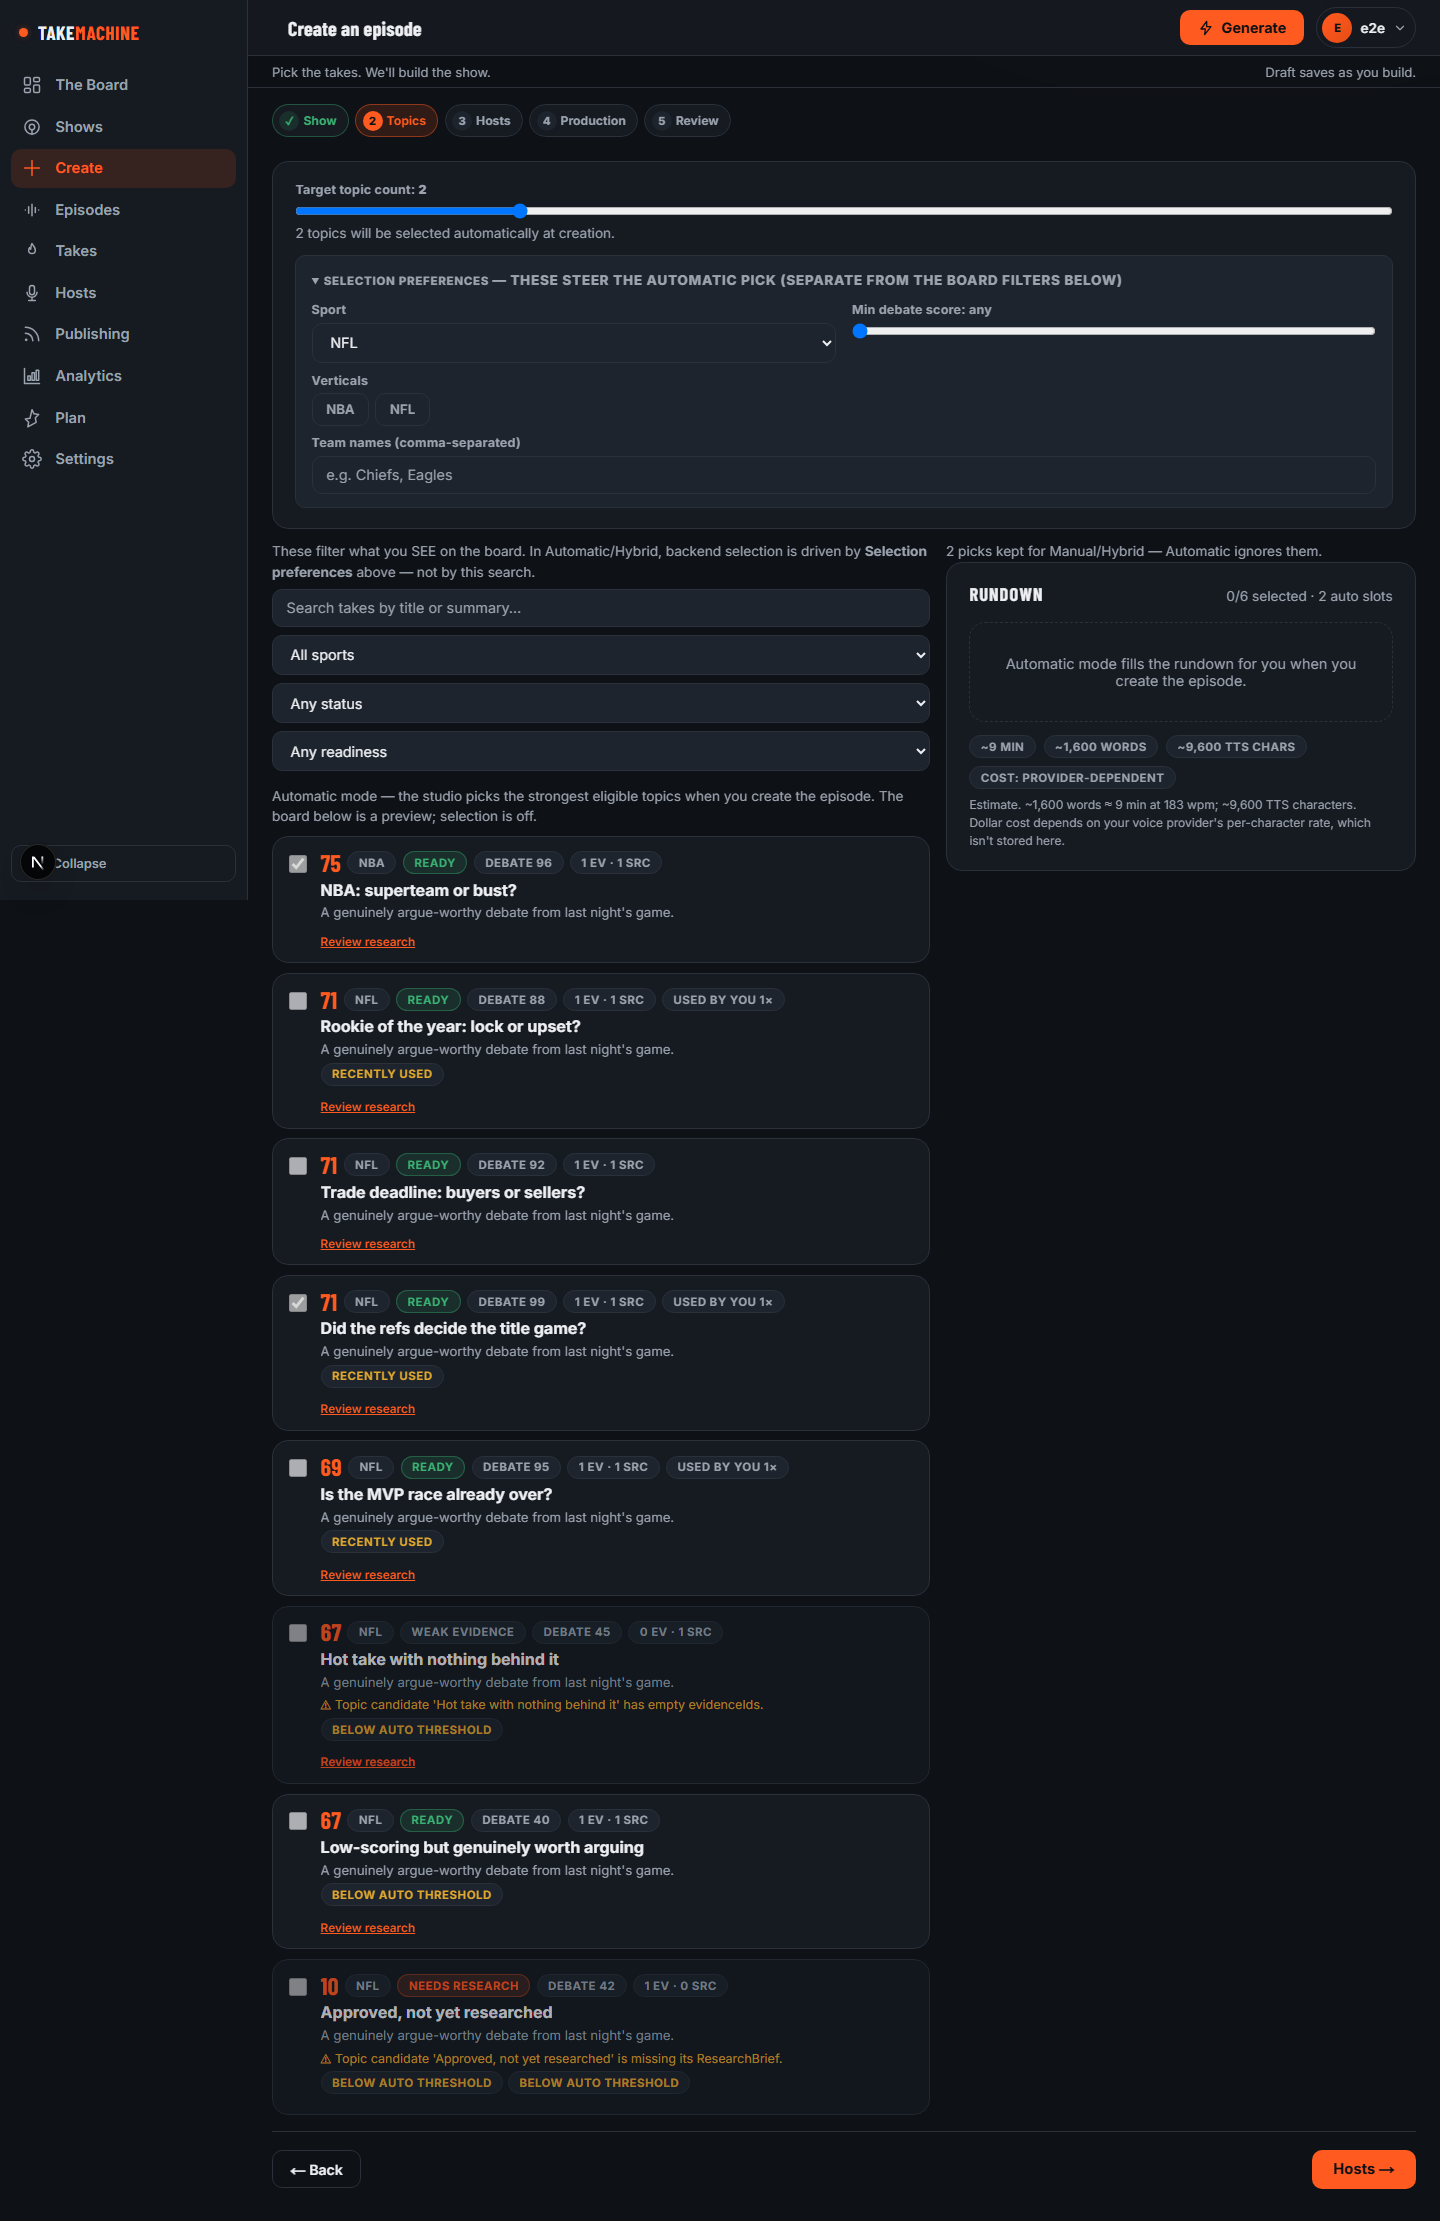
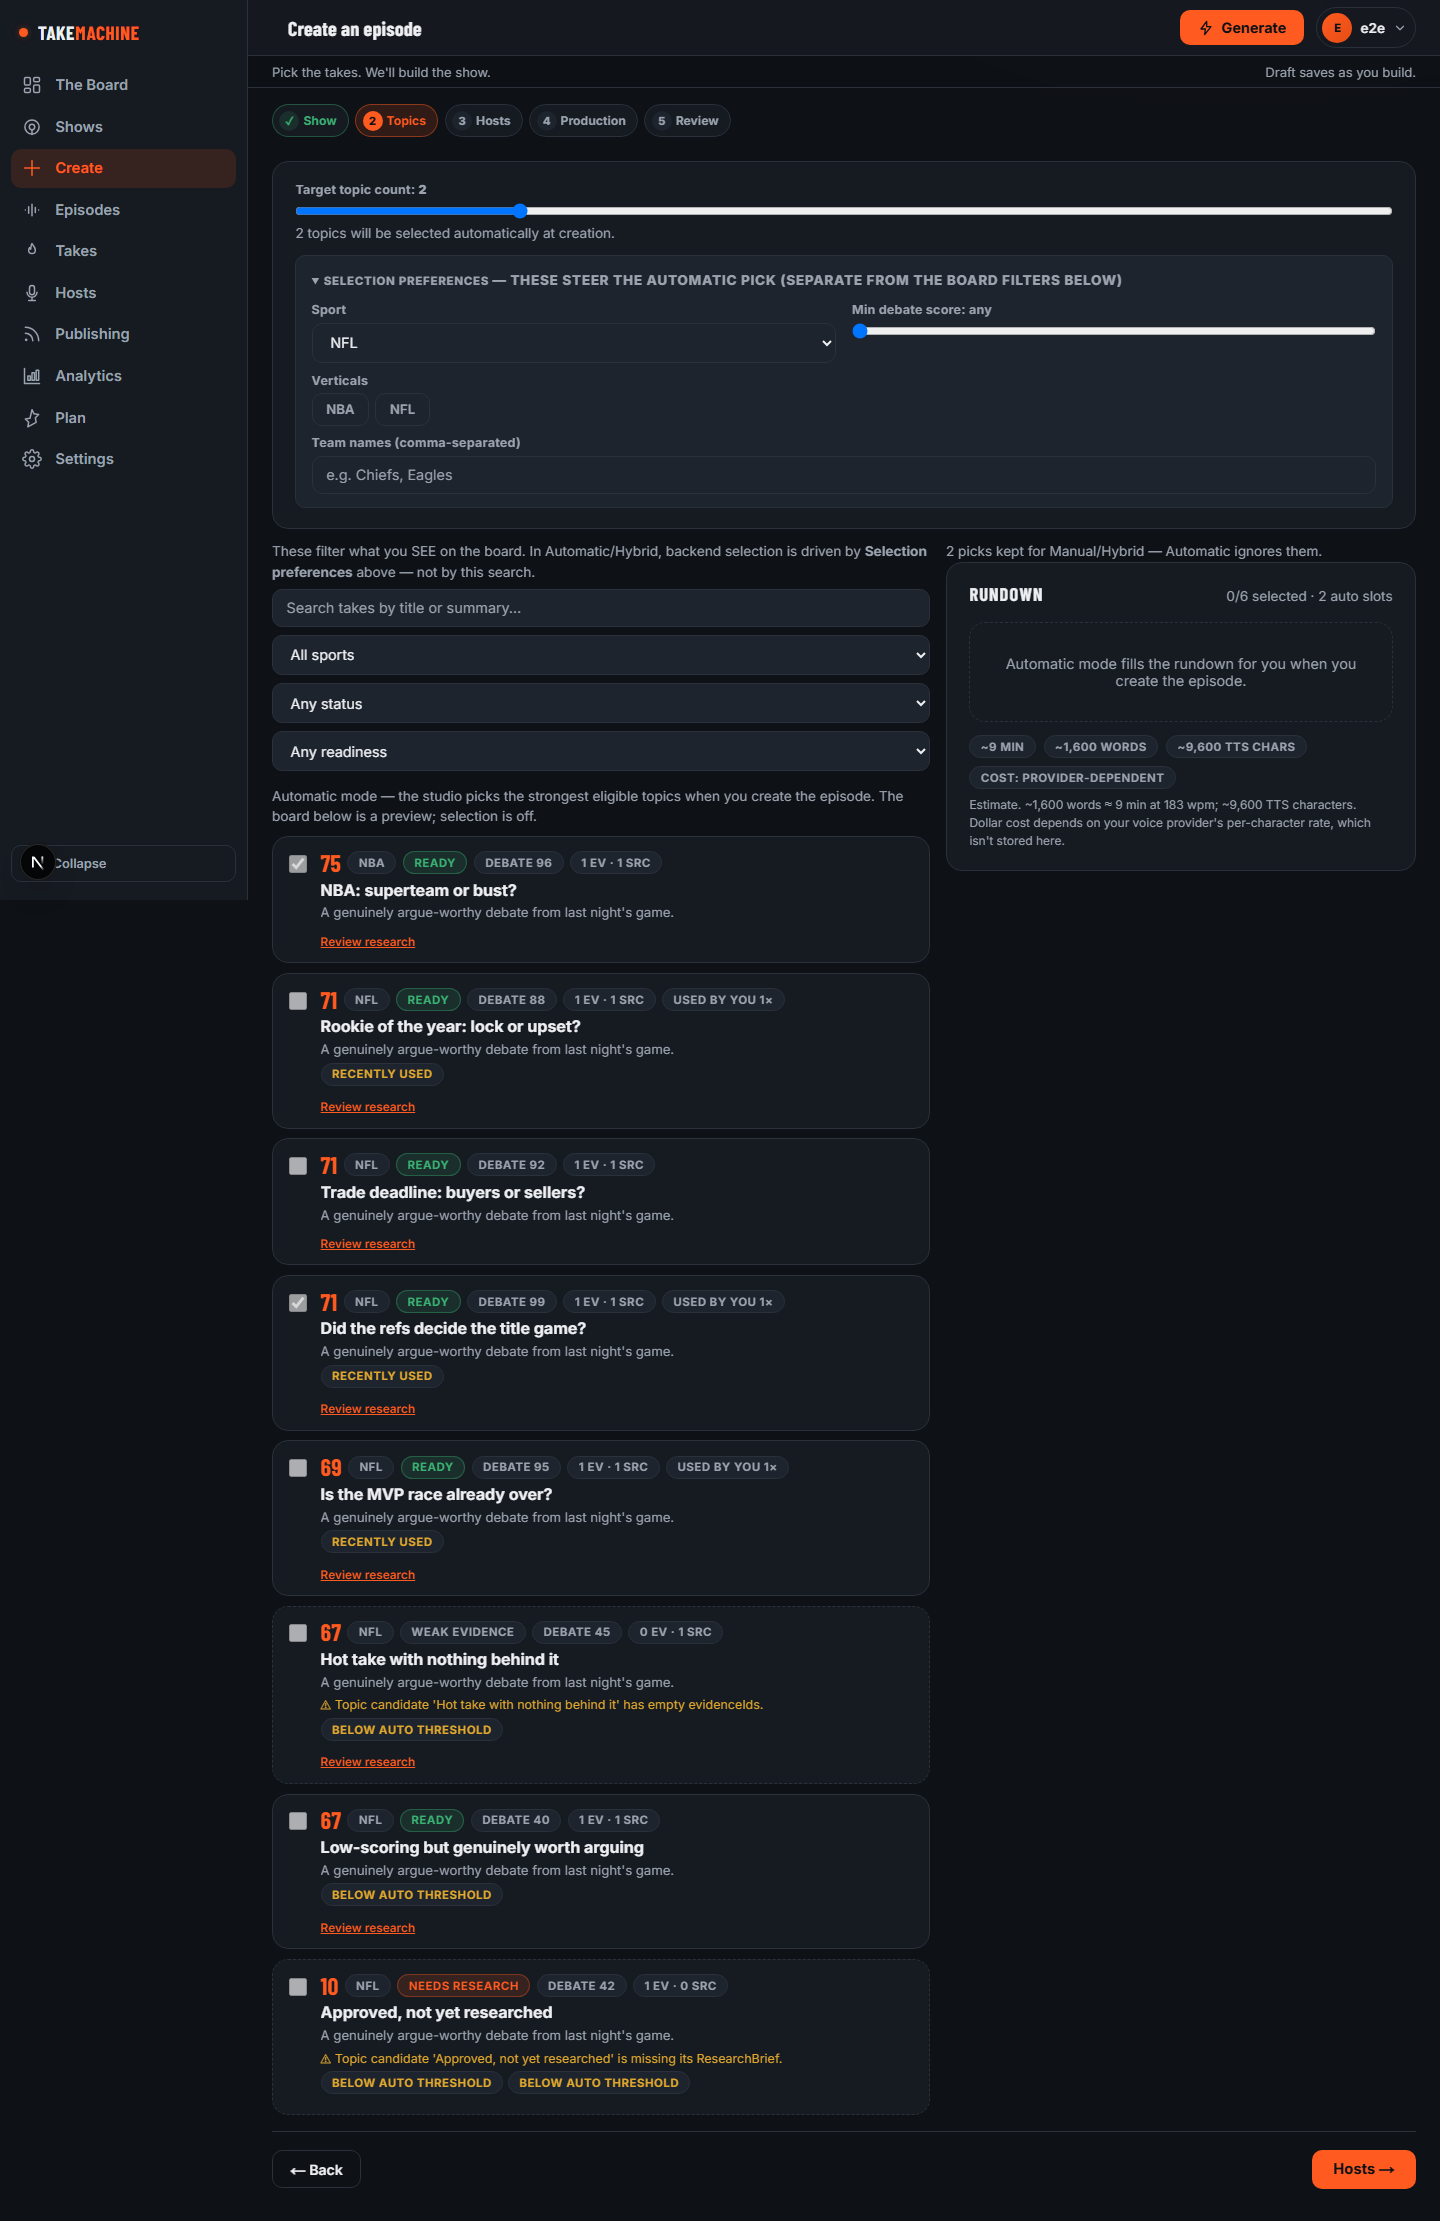
fix(studio): stop recessing text with opacity — three AA failures
Every one of these is the same mistake, and I made the first of them myself
one commit ago: to make something look secondary, fade it. Opacity does not
know about contrast, so each fade quietly walked a token that passes AA down
below the floor.

  * .prodTickerLine — mine. opacity 0.6 on --text-muted measured 3.29:1, so
    the line telling you what is coming next was the least legible thing on
    the page. Now muted vs full text, 6.85:1.
  * TopicRundownPicker — opacity 0.72 on an unselectable card dropped every
    chip on it to 4.04:1, so the card explaining WHY a take cannot be used
    was the hardest one to read. Now a dashed border; the checkbox is already
    disabled and the readiness chip already gives the reason. This one
    survived the earlier inline-style purge because the file lives under
    src/components/, outside the token spec's src/app/studio/** scope.
  * .epTabHint — opacity 0.9 pulled --accent on the active tab from 4.81:1 to
    4.25:1, and 0.85 did the same to the inactive hint.

axe was measuring all three; only the first was introduced this branch.

diff --git a/src/app/studio/studio.css b/src/app/studio/studio.css
@@ -557,14 +557,17 @@
   text-transform: uppercase;
   letter-spacing: 0.04em;
 }
+/* No opacity on either state. --accent on the active tab's wash is 4.81:1 and
+   --text-muted on --surface-2 is 6.13:1; the 0.9 and 0.85 fades that used to sit
+   here pulled the active hint to 4.25:1, under the AA floor. Recede with a
+   token, never by fading one. */
 .epTabHint {
   font-size: 0.68rem;
   font-weight: 500;
   letter-spacing: 0.01em;
   color: var(--text-muted);
-  opacity: 0.85;
 }
-.epTab.active .epTabHint { color: var(--accent); opacity: 0.9; }
+.epTab.active .epTabHint { color: var(--accent); }
 
 .epTabPanel { animation: fadeUp 0.25s ease both; }
 
@@ -1793,12 +1796,13 @@
   align-items: baseline;
   font-size: 0.8rem;
   line-height: 1.5;
-  /* Not-yet-recorded lines are present but recessive: they are what is coming,
-     not what has happened. */
+  /* Not-yet-recorded lines are recessive by TOKEN, never by opacity. Fading
+     --text-muted to 60% measured 3.29:1 — the line that says what is coming
+     next was the least legible thing on the page. Muted vs full text is the
+     same distinction every other row in this console already draws, and it
+     holds 6.85:1. */
   color: var(--text-muted);
-  opacity: 0.6;
 }
-.prodTickerLine--voiced { opacity: 1; }
 .prodTickerMark { font-family: var(--font-mono); color: var(--text-muted); }
 .prodTickerLine--voiced .prodTickerMark { color: var(--success); }
 .prodTickerSpeaker {

diff --git a/src/components/rundown/TopicRundownPicker.tsx b/src/components/rundown/TopicRundownPicker.tsx
@@ -178,7 +178,13 @@ export default function TopicRundownPicker({
             const canSelect = t.eligible || selected;
             const expanded = expandedId === t.id;
             return (
-              <li key={t.id} className="studioCard" style={{ padding: "0.85rem 1rem", opacity: canSelect ? 1 : 0.72 }}>
+              // An unusable card is marked by its BORDER, not by fading it. The
+              // old `opacity: 0.72` dropped every chip on the card to 4.04:1 —
+              // under the AA floor — so the card explaining WHY a take cannot be
+              // used was the hardest one on the page to read. The checkbox is
+              // already disabled and the readiness chip already says why; a
+              // dashed edge is the third signal and it costs no contrast.
+              <li key={t.id} className="studioCard" style={{ padding: "0.85rem 1rem", borderStyle: canSelect ? undefined : "dashed" }}>
                 <div style={{ display: "flex", gap: "0.85rem", alignItems: "flex-start" }}>
                   <input
                     type="checkbox"
